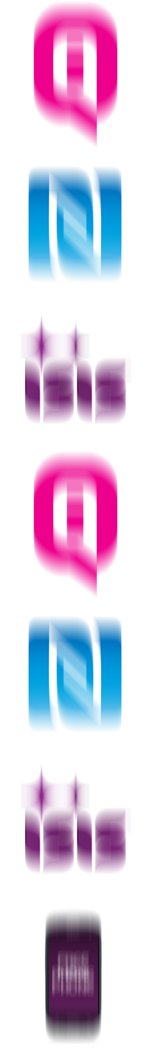
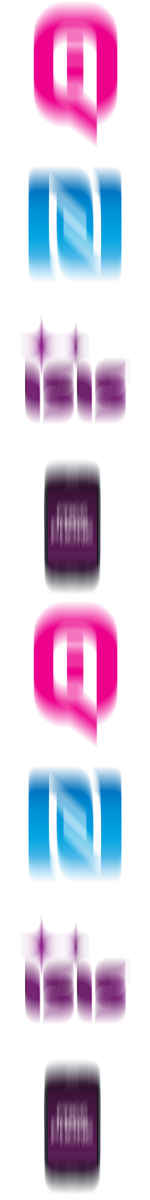
Winner EVERY TIME!
...

diff --git a/index.html b/index.html
@@ -9,7 +9,7 @@
 		<style type="text/css">
 		
 		 body,html { height:100%; margin:0px; }
-		 #spin-btn { width:100%; position:absolute; bottom:20%;left:0%;text-align:center; z-index:999; }
+		 #spin-btn { width:100%; position:absolute; bottom:10%;left:0%;text-align:center; z-index:999; }
 		 #frame {
 			 margin:0px;
 			 overflow:hidden;
@@ -43,6 +43,22 @@
 			text-align:center;
 
 		 }
+		 #spin-btn { margin:auto; text-align:center; }
+		 #control {
+			text-indent:-9999px;
+			background:url(spin-up.png) center no-repeat;
+			background-size:75%;
+			height:100px;
+			
+			display:block;
+		 }
+		 #control:active{
+			background:url(spin-up.png) center no-repeat;
+		 }
+		 .pressed {
+			
+		 }
+	
 		 .slot { background:#fff  url(bars.png); background-position:0 4px;background-size:100%; }
 		 .motion {
 		    background:#fff url(bars-blur.png);
@@ -69,9 +85,9 @@
 			<script>
 
 $(document).ready(function() {
-
-	var completed = 0,
-		imgHeight = 1050,
+	var winner = 1,
+	    completed = 0,
+		imgHeight = 1200,
 		posArr = [
 			0, //cc
 			150, //nfc
@@ -84,9 +100,9 @@ $(document).ready(function() {
 	
 	var win = [];
 	win[0]   = win[0]   = win[0]   = 1;
-	win[150] = win[150] = win[150]  = 2;
+	win[150] = win[150] = win[150] = 2;
 	win[300] = win[300] = win[300] = 3;
-	win[450] = win[300] = win[450] = 4
+	win[450] = win[300] = win[450] = 4;
 	win[600] = win[600] = win[600] = 5;
 	win[750] = win[750] = win[750] = 6;
 	win[900] = win[900] = win[900] = 7;
@@ -95,13 +111,14 @@ $(document).ready(function() {
 	* @class Slot
 	* @constructor
 	*/
-	function Slot(el, max, step) {
+	function Slot(el, max, step,win) {
+	
 		this.speed = 0; //speed of the slot at any point of time
 		this.step = step; //speed will increase at this rate
 		this.si = null; //holds setInterval object for the given slot
 		this.el = el; //dom element of the slot
 		this.maxSpeed = max; //max speed this slot can have
-		this.pos = null; //final position of the slot	
+		this.pos = win; //final position of the slot	
 
 		$(el).pan({
             fps:30,
@@ -116,6 +133,7 @@ $(document).ready(function() {
 	*/
 	Slot.prototype.start = function() {
 		var _this = this;
+		
 		$(_this.el).addClass('motion');
         $(_this.el).spStart();
 		_this.si = window.setInterval(function() {
@@ -124,6 +142,9 @@ $(document).ready(function() {
 				$(_this.el).spSpeed(_this.speed);
 			}
 		}, 100);
+		
+
+		
 	};
 
 	/**
@@ -131,6 +152,10 @@ $(document).ready(function() {
 	* Stops a slot
 	*/
 	Slot.prototype.stop = function() {
+		var winner=1;
+		
+
+		
 		var _this = this,
 			limit = 30;
 		clearInterval(_this.si);
@@ -140,7 +165,11 @@ $(document).ready(function() {
 				$(_this.el).spSpeed(_this.speed);
 			}
 			if(_this.speed <= limit) {
-				_this.finalPos(_this.el);
+			
+
+			
+				     _this.finalPos(_this.el);
+				
 				$(_this.el).spSpeed(0);
 				$(_this.el).spStop();
 				clearInterval(_this.si);
@@ -166,11 +195,12 @@ $(document).ready(function() {
 			k;
 
 		el_id = $(el).attr('id');
-		//pos = $(el).css('background-position'); //for some unknown reason, this does not work in IE
-		pos = document.getElementById(el_id).style.backgroundPosition;
-		pos = pos.split(' ')[1];
-		pos = parseInt(pos, 10);
 
+		  pos = document.getElementById(el_id).style.backgroundPosition;
+		  pos = pos.split(' ')[1];
+		  pos = parseInt(pos, 10);
+		
+		
 		for(i = 0; i < posArr.length; i++) {
 			for(j = 0;;j++) {
 				k = posArr[i] + (imgHeight * j);
@@ -178,7 +208,10 @@ $(document).ready(function() {
 					if((k - pos) < posMin) {
 						posMin = k - pos;
 						best = k;
-						this.pos = posArr[i]; //update the final position of the slot
+		
+						  this.pos = posArr[i]; //update the final position of the slot
+
+						
 					}
 					break;
 				}
@@ -186,7 +219,12 @@ $(document).ready(function() {
 		}
 
 		best += imgHeight + 4;
-		bgPos = "0 " + best + "px";
+		
+		if (winner ==1) { 
+		  bgPos = "0 " + 1900 + "px";
+		} else {
+		  bgPos = "0 " + best + "px";
+		}
 		$(el).animate({
 			backgroundPosition:"(" + bgPos + ")"
 		}, {
@@ -225,10 +263,11 @@ $(document).ready(function() {
 		} else {
 			res = "You Lose";
 		}
+		console.log(a.pos + ' ' + b.pos + ' ' + c.pos );
 		$('#result').html(res);
 	}
 
-	//create slot objects
+
 	var a = new Slot('#slot1', 30, 1),
 		b = new Slot('#slot2', 45, 2),
 		c = new Slot('#slot3', 70, 3);
@@ -243,11 +282,10 @@ $(document).ready(function() {
 			b.start();
 			c.start();
 			this.innerHTML = "Stop";
+			//$(this).toggleClass('pressed'); // = "Stop";
 			
 			disableControl(); //disable control until the slots reach max speed
 			
-			//check every 100ms if slots have reached max speed 
-			//if so, enable the control
 			x = window.setInterval(function() {
 				if(a.speed >= a.maxSpeed && b.speed >= b.maxSpeed && c.speed >= c.maxSpeed) {
 					enableControl();
@@ -258,6 +296,7 @@ $(document).ready(function() {
 			a.stop();
 			b.stop();
 			c.stop();
+		//	$(this).toggleClass('pressed'); // = "Stop";
 			this.innerHTML = "Reset";
 
 			disableControl(); //disable control until the slots stop
@@ -268,6 +307,9 @@ $(document).ready(function() {
                 if(a.speed === 0 && b.speed === 0 && c.speed === 0 && completed === 3) {
                     enableControl();
                     window.clearInterval(x);
+					if(winner==1){
+					 a.pos=900;b.pos=900;c.pos=900;
+					}
 					printResult();
                 }
             }, 100);
